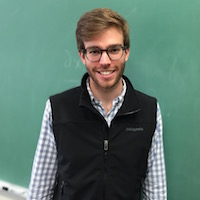
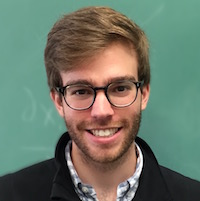
fix

diff --git a/index.html b/index.html
@@ -5,7 +5,7 @@ title: William Schpero
 <!-- <div class="jumbotron"> -->
 <div class="row marketing">
 	<div class="col-sm-4">
-	<img alt="William Schpero" src="img/wschpero-200px.jpeg">
+	<img class="img-circle avatar" alt="William Schpero" src="img/wschpero-200px.jpeg">
 	</div>
 	<div itemscope itemtype="http://data-vocabulary.org/Person" class="col-sm-8">
 
